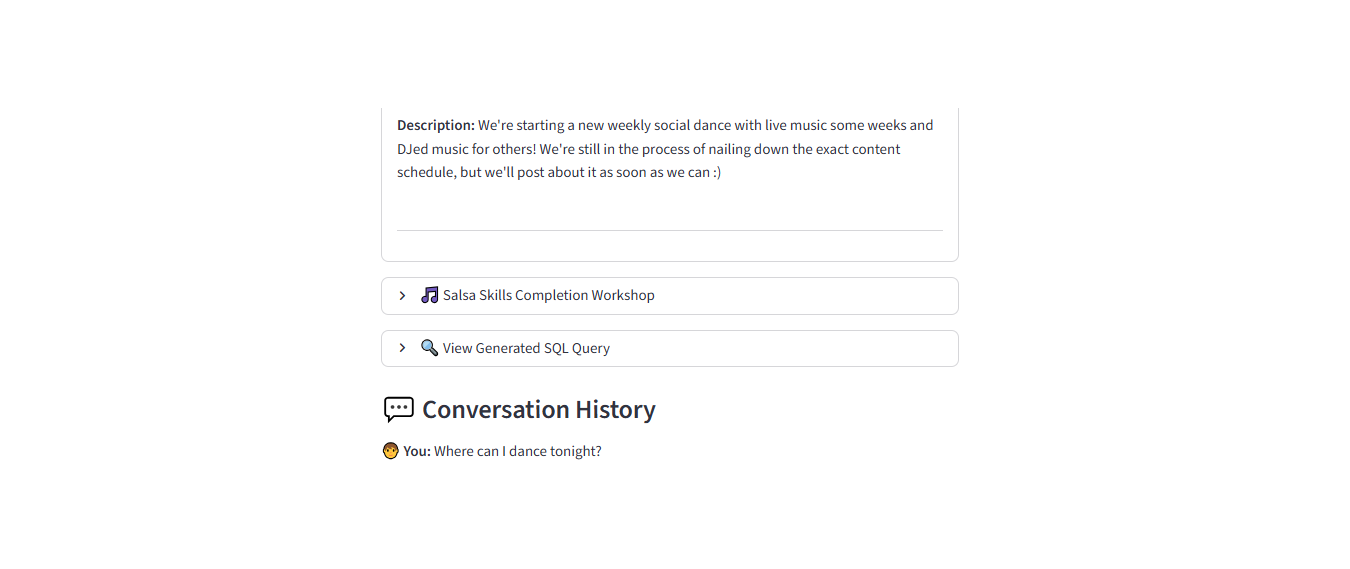
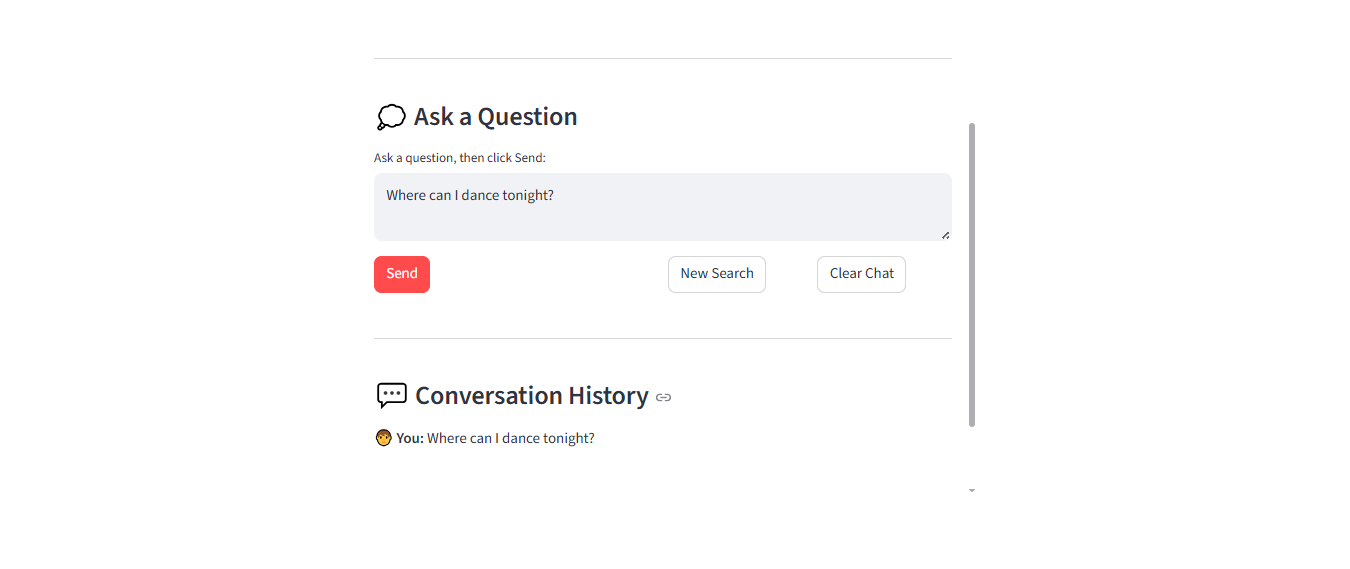
Trying to get the code to put the input field at the bottom of the conversation.

diff --git a/src/app.py b/src/app.py
@@ -95,32 +95,37 @@ if st.session_state.get("conversation_id"):
         st.write(f"**Conversation ID:** {st.session_state['conversation_id'][:8] if st.session_state['conversation_id'] else 'None'}...")
         st.write(f"**Last Intent:** {st.session_state.get('last_intent', 'None')}")
 
-# Create a container for the input that's always visible
-with st.container():
-    st.markdown("### 💭 Ask a Question")
-    
-    # Get user input
-    user_input = st.text_area("Ask a question, then click Send:", height=100, key="user_input")
-    
-    # Create columns for buttons
-    col1, col2, col3 = st.columns([2, 1, 1])
-    
-    with col1:
-        send_button = st.button("Send", type="primary")
-    
-    with col2:
-        if st.button("New Search"):
-            # Clear conversation context for new search
-            st.session_state["session_token"] = str(uuid.uuid4())
-            st.session_state["conversation_id"] = None
-            st.session_state["last_intent"] = None
-            st.session_state["messages"] = []
-            st.rerun()
-    
-    with col3:
-        if st.button("Clear Chat"):
-            st.session_state["messages"] = []
-            st.rerun()
+# Show initial input field only if no messages yet
+if not st.session_state["messages"]:
+    with st.container():
+        st.markdown("### 💭 Ask a Question")
+        
+        # Get user input
+        user_input = st.text_area("Ask a question, then click Send:", height=100, key="user_input")
+        
+        # Create columns for buttons
+        col1, col2, col3 = st.columns([2, 1, 1])
+        
+        with col1:
+            send_button = st.button("Send", type="primary")
+        
+        with col2:
+            if st.button("New Search"):
+                # Clear conversation context for new search
+                st.session_state["session_token"] = str(uuid.uuid4())
+                st.session_state["conversation_id"] = None
+                st.session_state["last_intent"] = None
+                st.session_state["messages"] = []
+                st.rerun()
+        
+        with col3:
+            if st.button("Clear Chat"):
+                st.session_state["messages"] = []
+                st.rerun()
+else:
+    # If there are messages, we'll show the input field after the conversation
+    send_button = False
+    user_input = ""
 
 # Process user input
 process_input = False
@@ -239,20 +244,72 @@ if process_input:
         
     except Exception as e:
         error_handling(e)
-        
-    # Clear the input field after processing
-    st.rerun()
 
-# Add some spacing
-st.markdown("---")
-
-# Render the conversation history from newest to oldest
+# If there are messages, show the conversation flow and input field at the bottom
 if st.session_state["messages"]:
+    # Add some spacing
+    st.markdown("---")
+    
+    # Render the conversation history from newest to oldest
     st.markdown("### 💬 Conversation History")
     for message in reversed(st.session_state["messages"]):
         if message["role"] == "user":
             st.markdown(f"**🧑 You:** {message['content']}")
         else:
             st.markdown(f"**🤖 Assistant:** {message['content']}")
+    
+    st.markdown("---")
+    
+    # Show the input field at the bottom for continued conversation
+    with st.container():
+        st.markdown("### 💭 Continue the Conversation")
+        
+        # Get user input for follow-up
+        followup_input = st.text_area("Ask another question or refine your search:", height=100, key="followup_input")
+        
+        # Create columns for buttons
+        col1, col2, col3 = st.columns([2, 1, 1])
+        
+        with col1:
+            if st.button("Send", type="primary", key="followup_send"):
+                if followup_input.strip():
+                    # Add to messages and process
+                    st.session_state["messages"].append({"role": "user", "content": followup_input})
+                    
+                    # Process the follow-up input
+                    try:
+                        payload = {
+                            "user_input": followup_input,
+                            "session_token": st.session_state["session_token"]
+                        }
+                        response = requests.post(FASTAPI_API_URL, json=payload)
+                        response.raise_for_status()
+                        data = response.json()
+                        
+                        # Update session state
+                        if data.get("conversation_id"):
+                            st.session_state["conversation_id"] = data["conversation_id"]
+                        if data.get("intent"):
+                            st.session_state["last_intent"] = data["intent"]
+                        
+                        st.rerun()  # Refresh to show new results
+                        
+                    except Exception as e:
+                        error_handling(e)
+                        st.rerun()
+        
+        with col2:
+            if st.button("New Search", key="followup_new"):
+                # Clear conversation context for new search
+                st.session_state["session_token"] = str(uuid.uuid4())
+                st.session_state["conversation_id"] = None
+                st.session_state["last_intent"] = None
+                st.session_state["messages"] = []
+                st.rerun()
+        
+        with col3:
+            if st.button("Clear Chat", key="followup_clear"):
+                st.session_state["messages"] = []
+                st.rerun()
 else:
     st.info("💡 Start a conversation by asking a question above!")

diff --git a/src/main.py b/src/main.py
@@ -95,6 +95,11 @@ def process_query(request: QueryRequest):
     session_token = request.session_token
     use_contextual_prompt = session_token is not None
     
+    # Initialize variables for both contextual and non-contextual paths
+    conversation_id = None
+    intent = None
+    entities = {}
+    
     if use_contextual_prompt:
         try:
             # Get or create conversation
